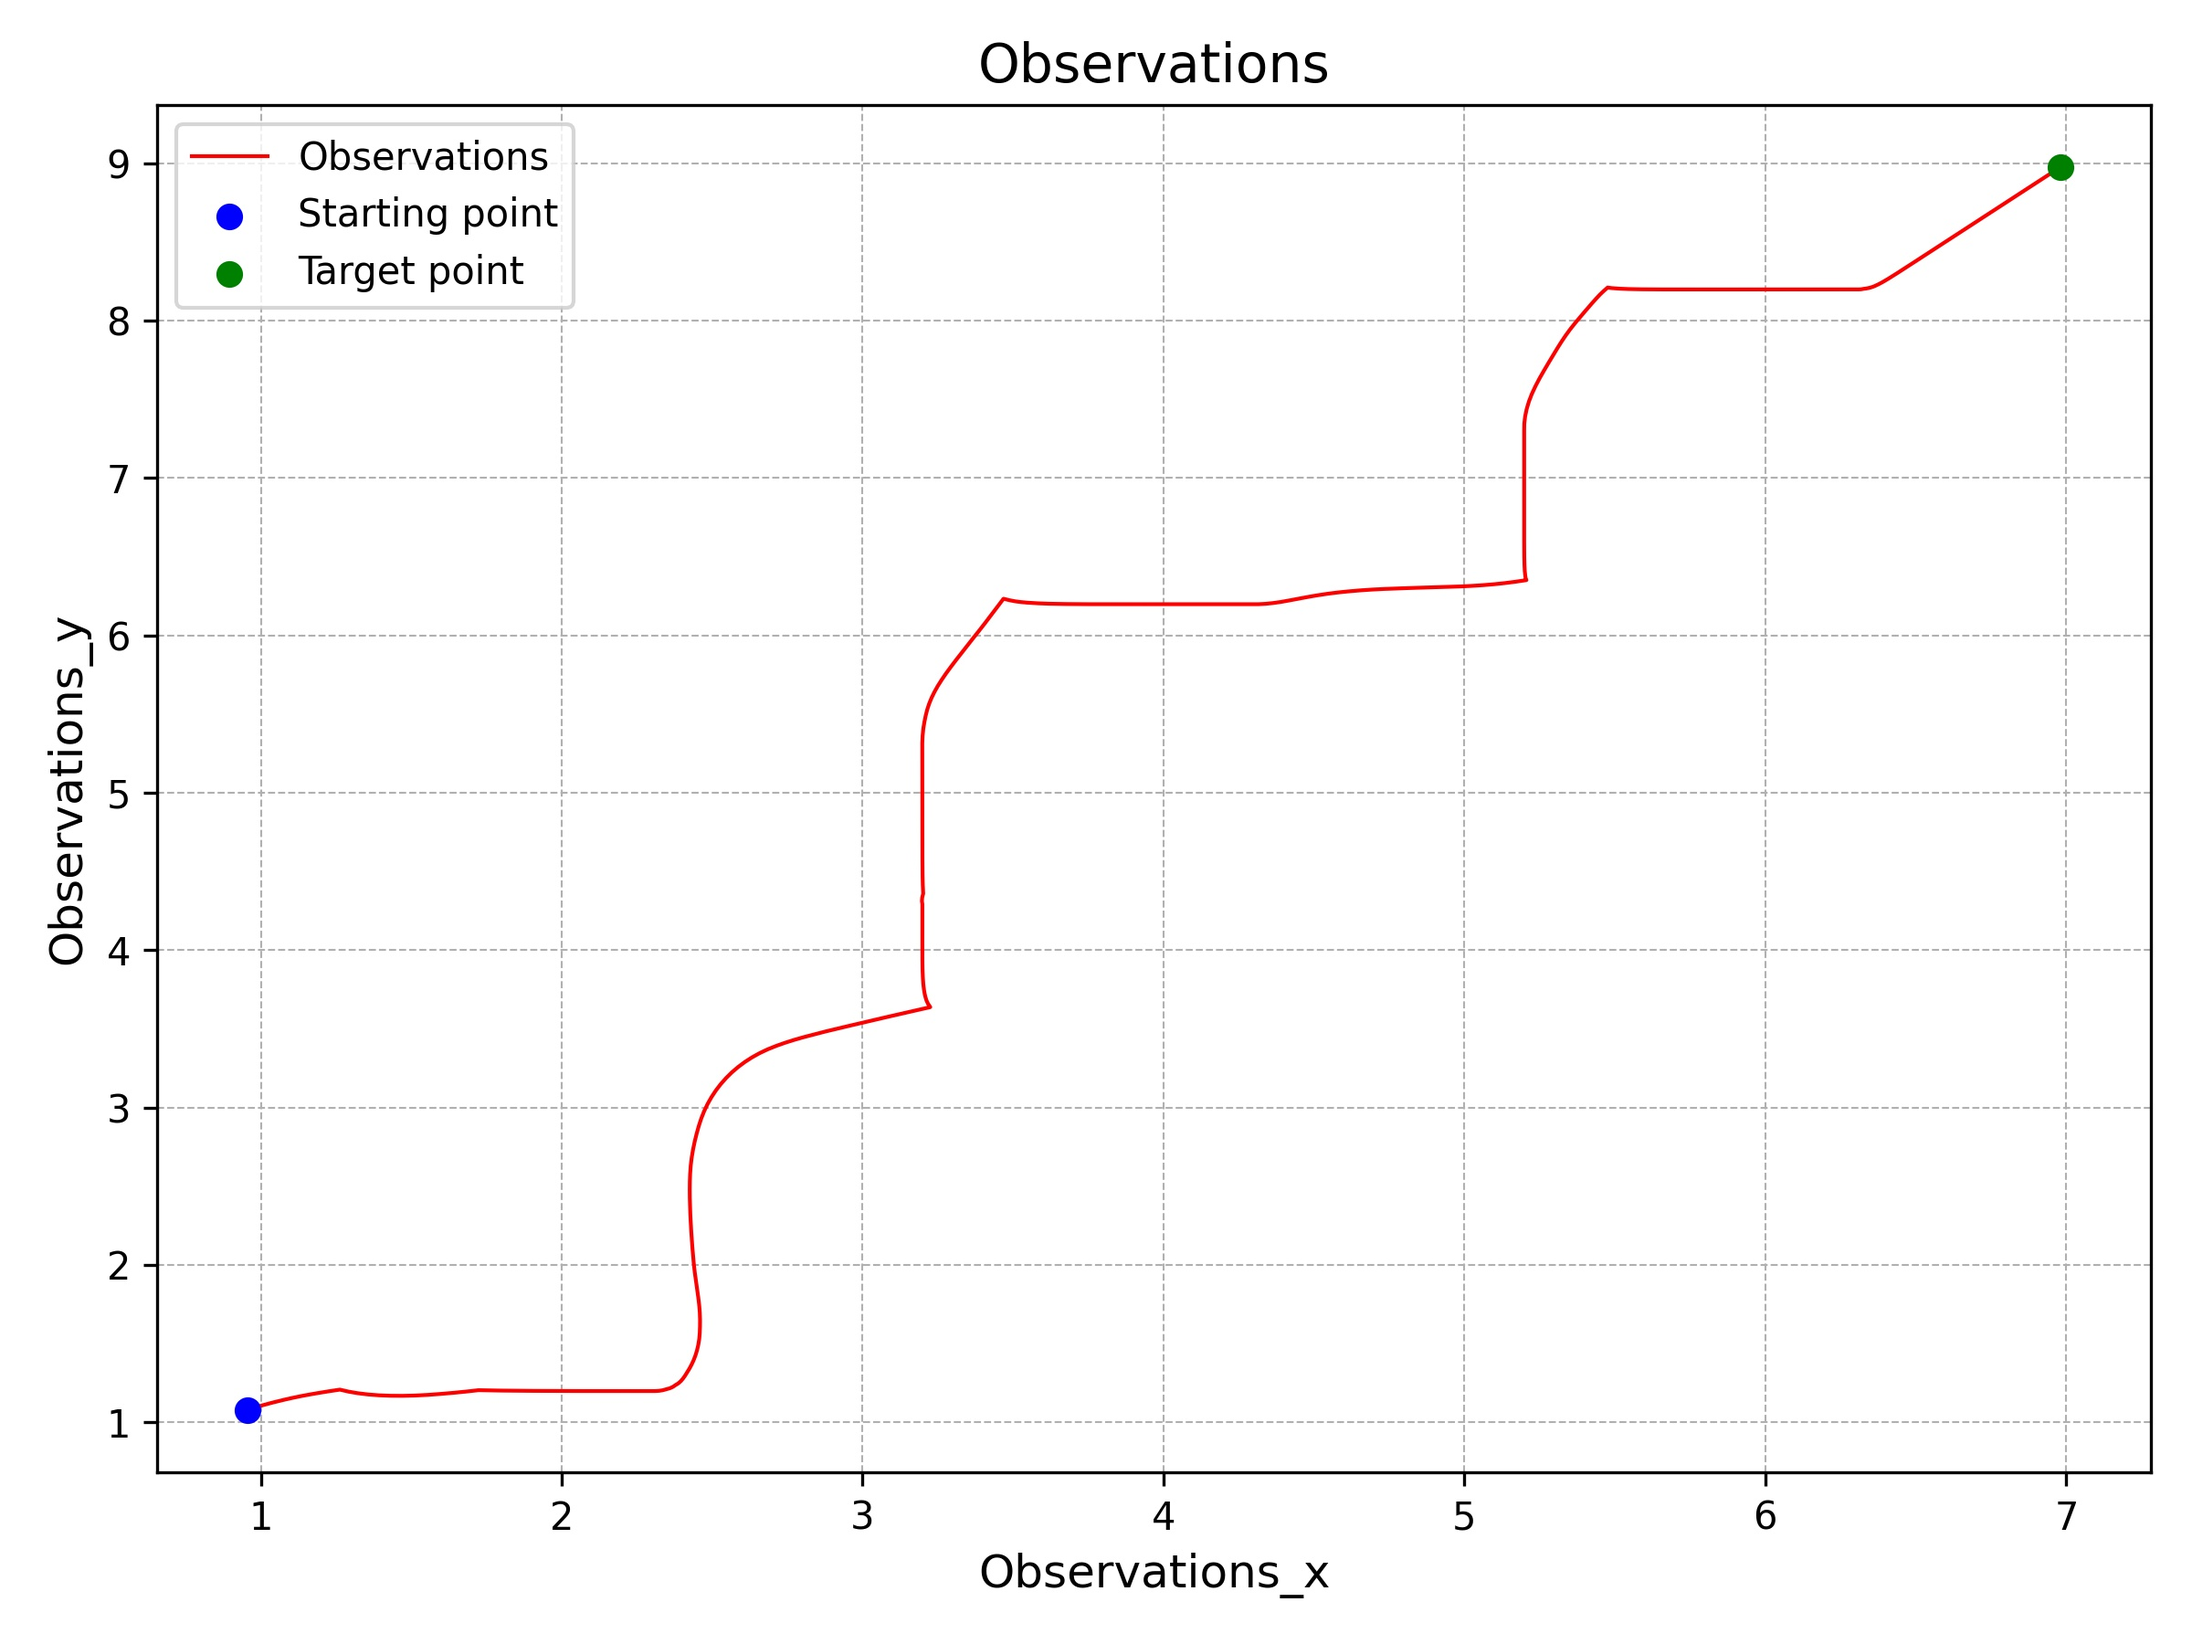
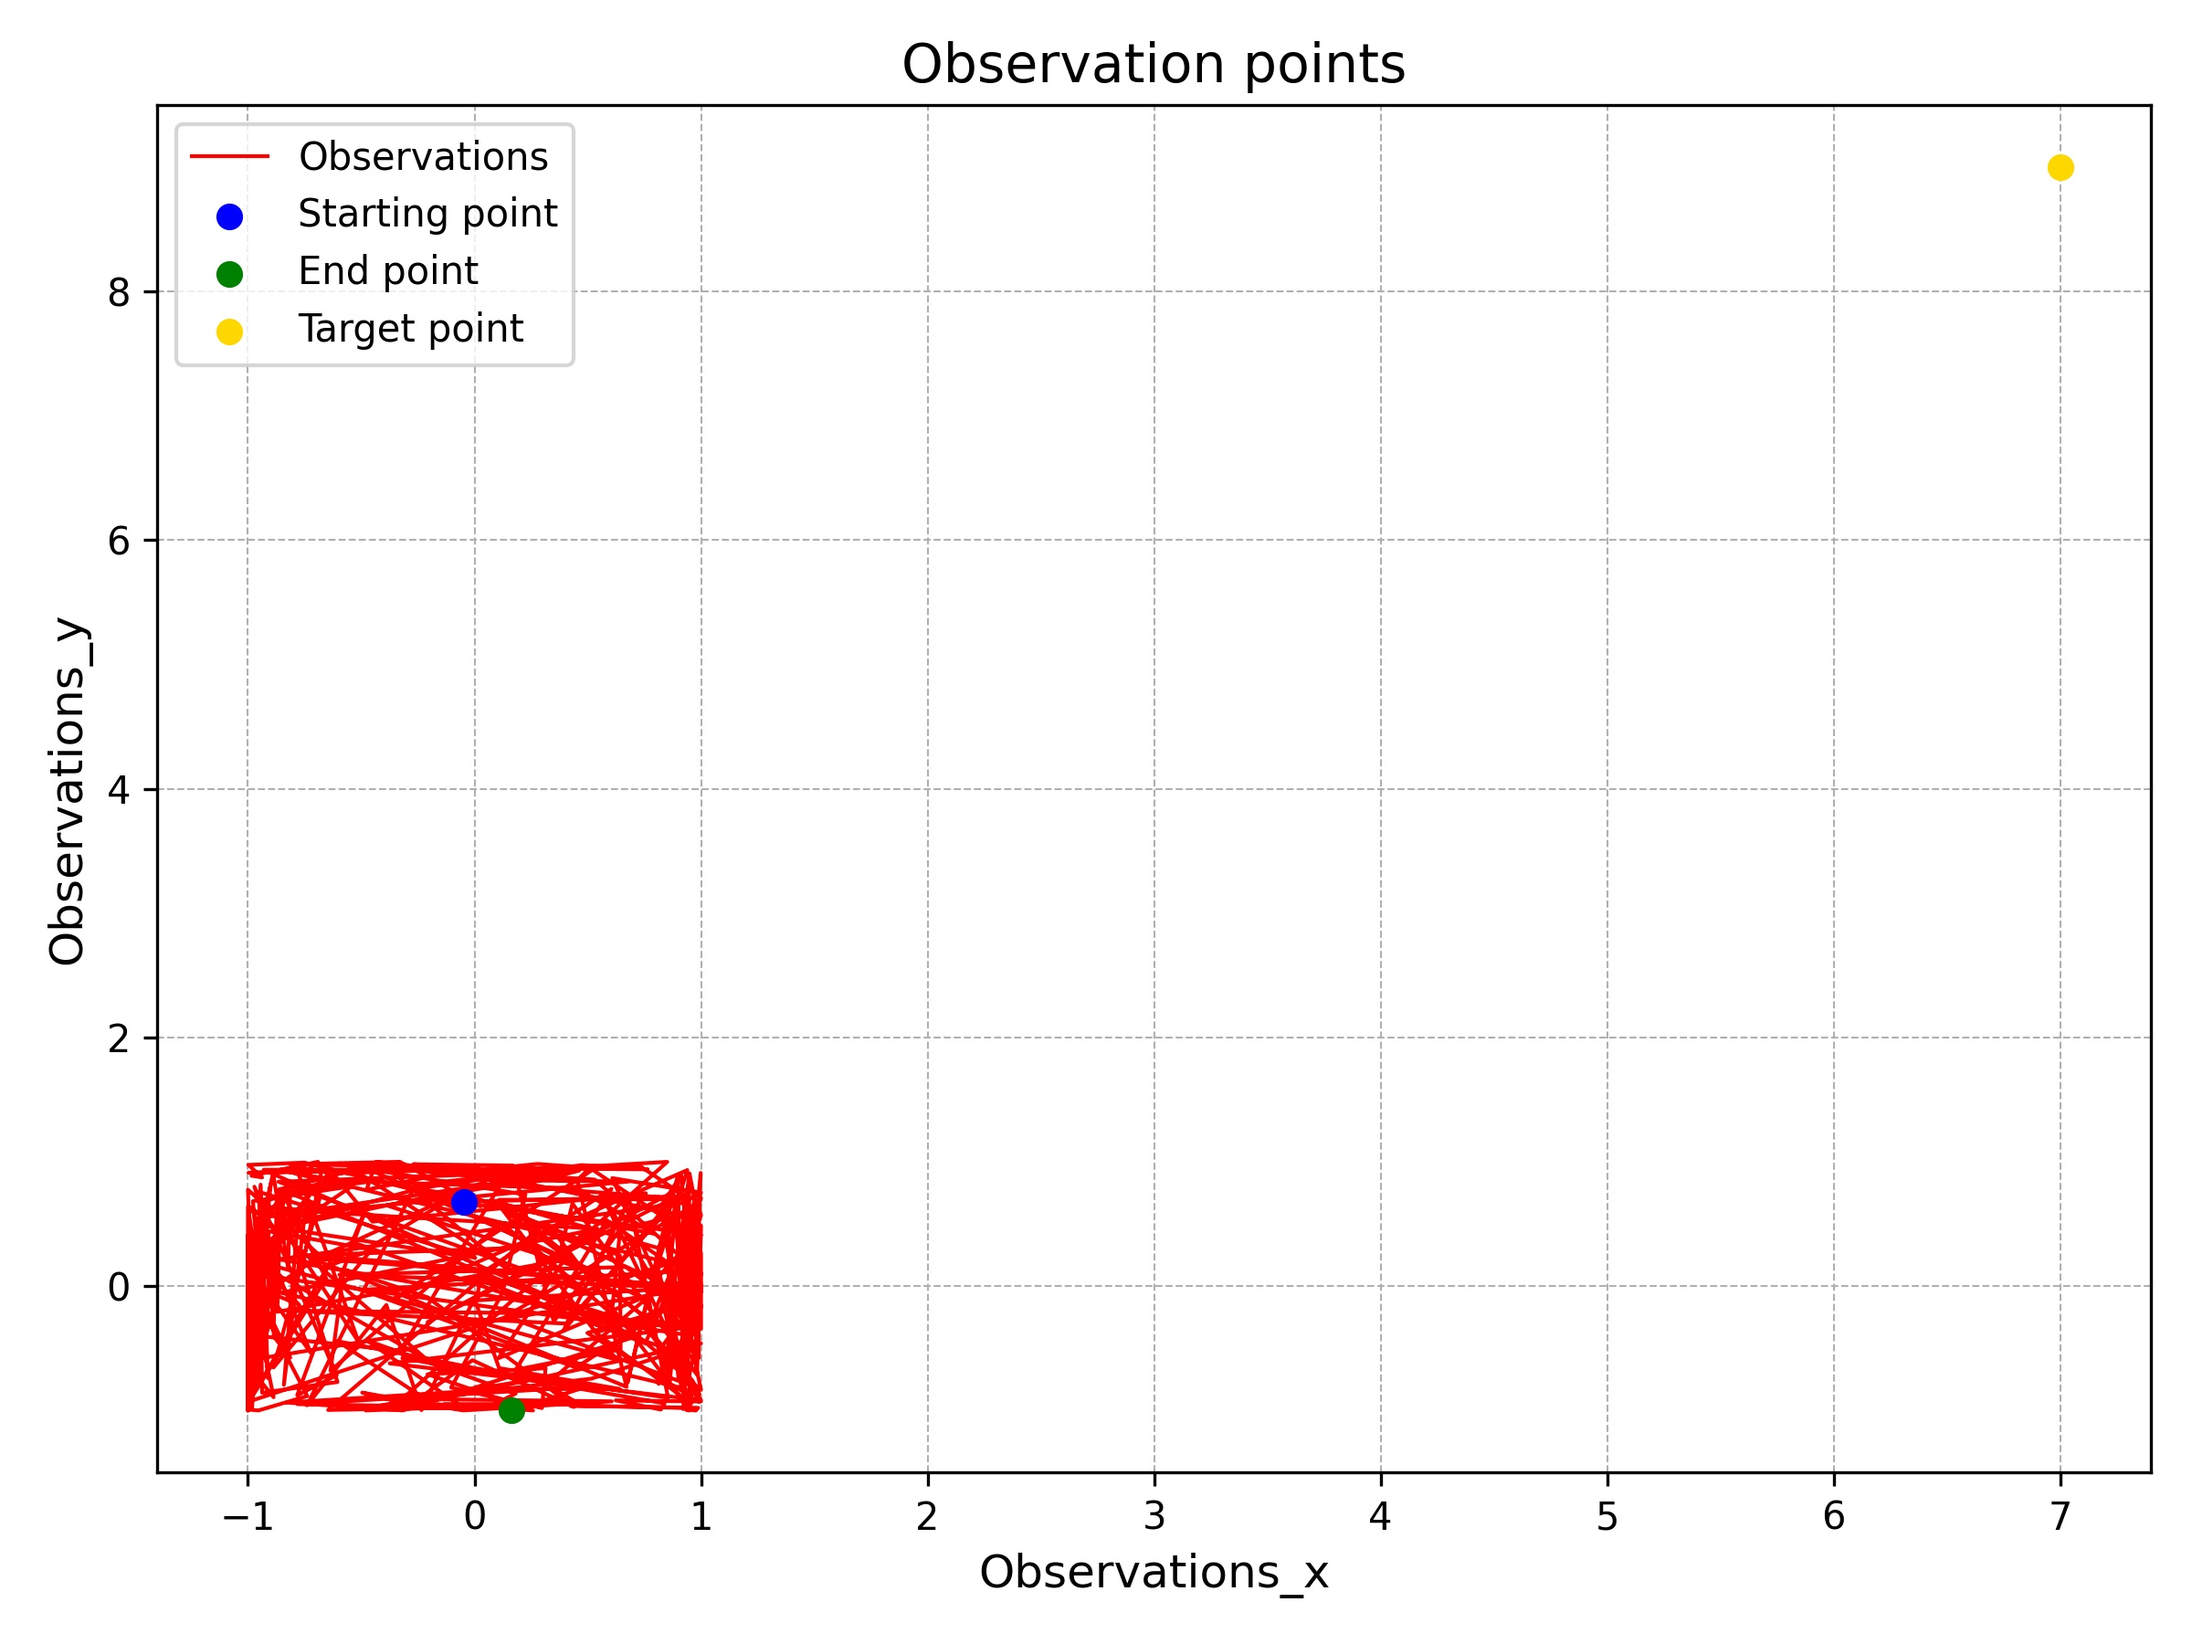
Added target point for observation plots

diff --git a/scripts/plan_maze2d.py b/scripts/plan_maze2d.py
@@ -101,17 +101,17 @@ for t in range(env.max_episode_steps):
     used_actions.append(action)
     total_reward += reward
     score = env.get_normalized_score(total_reward)
-    # print(
-    #     f't: {t} | r: {reward:.2f} |  R: {total_reward:.2f} | score: {score:.4f} | '
-    #     f'{action}'
-    # )
+    print(
+        f't: {t} | r: {reward:.2f} |  R: {total_reward:.2f} | score: {score:.4f} | '
+        f'{action}'
+    )
 
-    # if 'maze2d' in args.dataset:
-    #     xy = next_observation[:2]
-    #     goal = env.unwrapped._target
-    #     print(
-    #         f'maze | pos: {xy} | goal: {goal}'
-    #     )
+    if 'maze2d' in args.dataset:
+        xy = next_observation[:2]
+        goal = env.unwrapped._target
+        print(
+            f'maze | pos: {xy} | goal: {goal}'
+        )
 
     ## update rollout observations
     rollout.append(next_observation.copy())
@@ -127,7 +127,7 @@ for t in range(env.max_episode_steps):
 
         ## save rollout thus far
         # renderer.composite(join(args.savepath, 'rollout.png'), np.array(rollout)[None], ncol=1)
-        # renderer.composite(join(args.savepath, 'rollout_' + str(t) + '.png'), np.array(rollout)[None], ncol=1) # Makes the complete path(old rollout.png) now be the rollout_ + final t value + .png
+        renderer.composite(join(args.savepath, 'rollout_' + str(t) + '.png'), np.array(rollout)[None], ncol=1) # Makes the complete path(old rollout.png) now be the rollout_ + final t value + .png
 
         # renderer.render_rollout(join(args.savepath, f'rollout.mp4'), rollout, fps=80)
 
@@ -142,14 +142,15 @@ for t in range(env.max_episode_steps):
 
 # logger.finish(t, env.max_episode_steps, score=score, value=0)
 
-def plot_observation_points(observations_to_plot):
+def plot_observation_points(observations_to_plot, target):
     observation_x = [point[0] for point in observations_to_plot]
     observation_y = [point[1] for point in observations_to_plot]
     plt.figure(figsize=(8, 6))
     plt.plot(observation_x, observation_y, label="Observations", color='red', linewidth=1)
     # Mark the first and last actions with points
     plt.scatter(observation_x[0], observation_y[0], color='blue', label='Starting point', zorder=5)
-    plt.scatter(observation_x[-1], observation_y[-1], color='green', label='Target point', zorder=5)
+    plt.scatter(observation_x[-1], observation_y[-1], color='green', label='End point', zorder=5)
+    plt.scatter(target[0], target[1], color='gold', label='Target point', zorder=5)
     plt.grid(True, which='both', linestyle='--', linewidth=0.5)
     plt.title('Observation points', fontsize=14)
     plt.xlabel('Observations_x', fontsize=12)
@@ -158,21 +159,21 @@ def plot_observation_points(observations_to_plot):
     plt.tight_layout()
     plt.savefig("plotted_observation_points.jpeg", format='jpeg', dpi=300)
 
-def plot_observation_vels(observations_to_plot):
-    observation_x = [point[2] for point in observations_to_plot]
-    observation_y = [point[3] for point in observations_to_plot]
-    plt.figure(figsize=(8, 6))
-    plt.plot(observation_x, observation_y, label="Observations", color='red', linewidth=1)
-    # Mark the first and last actions with points
-    plt.scatter(observation_x[0], observation_y[0], color='blue', label='Starting point', zorder=5)
-    plt.scatter(observation_x[-1], observation_y[-1], color='green', label='Target point', zorder=5)
-    plt.grid(True, which='both', linestyle='--', linewidth=0.5)
-    plt.title('Observation velocities', fontsize=14)
-    plt.xlabel('Observations_x', fontsize=12)
-    plt.ylabel('Observations_y', fontsize=12)
-    plt.legend()
-    plt.tight_layout()
-    plt.savefig("plotted_observation_vels.jpeg", format='jpeg', dpi=300)
+# def plot_observation_vels(observations_to_plot):
+#     observation_vel_x = [point[2] for point in observations_to_plot]
+#     observation_vel_y = [point[3] for point in observations_to_plot]
+#     plt.figure(figsize=(8, 6))
+#     plt.plot(observation_vel_x, observation_vel_y, label="Observations", color='red', linewidth=1)
+#     # Mark the first and last actions with points
+#     plt.scatter(observation_vel_x[0], observation_vel_y[0], color='blue', label='Starting velocity', zorder=5)
+#     plt.scatter(observation_vel_x[-1], observation_vel_y[-1], color='green', label='End velocity', zorder=5)
+#     plt.grid(True, which='both', linestyle='--', linewidth=0.5)
+#     plt.title('Observation velocities', fontsize=14)
+#     plt.xlabel('Observations_x', fontsize=12)
+#     plt.ylabel('Observations_y', fontsize=12)
+#     plt.legend()
+#     plt.tight_layout()
+#     plt.savefig("plotted_observation_vels.jpeg", format='jpeg', dpi=300)
 
 
 def plot_actions_vs_time(actions_to_plot, max_timesteps=400):
@@ -245,13 +246,13 @@ def plot_actions_with_vectors(actions_to_plot, max_timesteps=400,window_size=10)
     plt.savefig("smoothed_vectorized_actions.jpeg", format='jpeg', dpi=300)
     plt.show()
 
-plot_observation_points(observations)
-plot_observation_vels(observations)
+plot_observation_points(actions,target)
+# plot_observation_vels(observations)
 # plot_actions_vs_time(used_actions)
 # plot_actions_with_vectors(used_actions)
 
-## save result as a json file
-# json_path = join(args.savepath, 'rollout.json')
-# json_data = {'score': score, 'step': t, 'return': total_reward, 'term': terminal,
-#     'epoch_diffusion': diffusion_experiment.epoch}
-# json.dump(json_data, open(json_path, 'w'), indent=2, sort_keys=True)
+# save result as a json file
+json_path = join(args.savepath, 'rollout.json')
+json_data = {'score': score, 'step': t, 'return': total_reward, 'term': terminal,
+    'epoch_diffusion': diffusion_experiment.epoch}
+json.dump(json_data, open(json_path, 'w'), indent=2, sort_keys=True)
